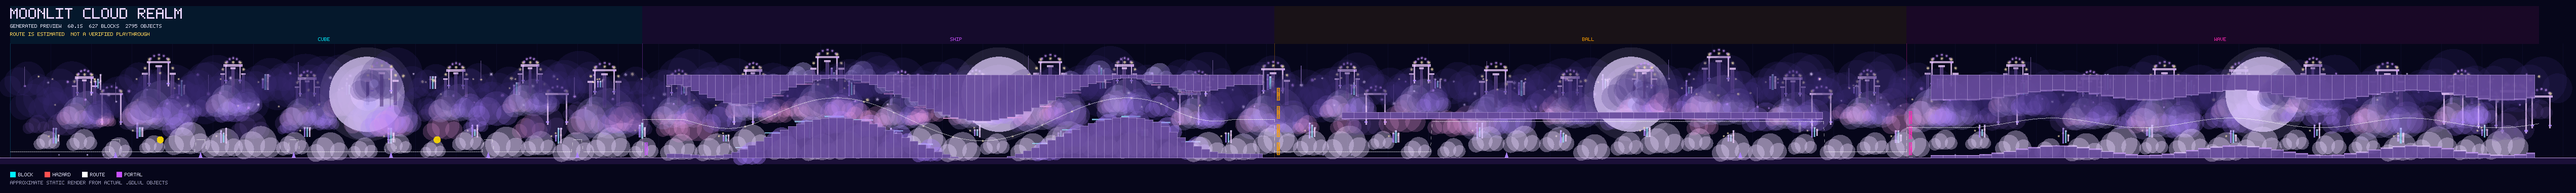
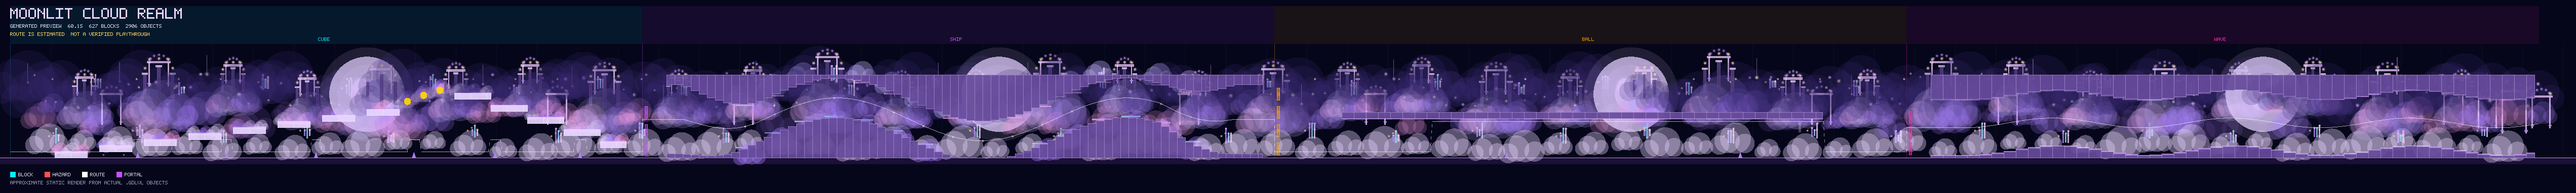
feat(moonlit): ascend the cube section over cloud steps and hidden orbs
- Replace flat ground spikes with eight cloud ledges rising 30 units each

- Add three yellow orbs nested in cloud puffs, then a descending cloud stair

- Stack ship portals at y=45/135/225 so any ledge height enters the ship

- Keep six ground hazards under the route; falls return to open ground

- Add a cube-ascent regression test (57 tests total)

Changed region(s): [[0.0, 0.288, 1.0, 0.8351]]

diff --git a/gdgen/moonlit.py b/gdgen/moonlit.py
@@ -168,17 +168,53 @@ def _at(level: Level, x: float, y: float, mode: str) -> None:
     # No extra speed portal: all 4 sections use normal speed.
 
 
-def _cube(level: Level, start: float, end: float) -> None:
-    # Explicitly sparse: previous 'Neon Cyber City' was judged too hard.
-    for offset in (780, 1410, 2100, 2820, 3540, 4200):
-        if start + offset < end - 350:
-            level.objects.append(make_spike(start + offset, 15, channel=3))
-    # Optional yellow orbs reinforce the reference image but are not required
-    # for progression. They are placed away from all compulsory spikes.
-    for offset in (1110, 3160):
-        level.objects.append(GDObject(ORB_YELLOW, start + offset, 90, {21: 6}))
-    # The ordinary Geometry Dash ground at y=0 is traversable.
-    # Do NOT build a row of solid blocks on it: that would trap the player.
+# Cube opening: a short stair of wide cloud ledges, then yellow orbs nestled
+# in decorative clouds, then a descending cloud stair into the ship portal.
+# Rises stay at 30 units and gaps at ~90 units, well inside the normal Cube
+# jump arc. Falls land on the ordinary ground, so a missed orb is survivable.
+CUBE_STEPS = (
+    (330, 570, 30), (660, 900, 60), (990, 1230, 90), (1320, 1560, 120),
+    (1650, 1890, 150), (1980, 2220, 180), (2310, 2550, 210), (2640, 2880, 240),
+)
+CUBE_ORBS = ((2940, 280), (3060, 310), (3180, 335))
+CUBE_DESCENT = (
+    (3290, 3560, 320), (3560, 3830, 260), (3830, 4100, 200),
+    (4100, 4370, 140), (4370, 4560, 80),
+)
+# Ground hazards live under the cloud path: the intended platform line stays
+# clean, but a missed jump is punished. Spacing >= 600 keeps it readable.
+CUBE_SPIKES = (945, 1605, 2265, 2990, 3590, 4220)
+
+
+def _cloud_platform(level: Level, x0: float, x1: float, top: float,
+                    rng: random.Random) -> None:
+    """Solid wide ledge, 30 units thick, with cosmetic cloud puffs behind it."""
+    _solid_strip(level, x0, x1, top - 30, top, 1, step=120, glow="top")
+    for cx in (x0 + 34, (x0 + x1) / 2, x1 - 34):
+        _cloud(level, cx, top + 6, rng.uniform(0.75, 1.05),
+               rng.choice((1, 2, 3)), rng, z=-2)
+
+
+def _cube(level: Level, start: float, end: float, rng: random.Random) -> None:
+    # Ascending cloud stair: jump from ledge to ledge, each one 30 units up.
+    for x0, x1, top in CUBE_STEPS:
+        if x1 < end - 300:
+            _cloud_platform(level, x0, x1, top, rng)
+    # Yellow orbs hidden inside cloud puffs continue the climb into the sky.
+    for ox, oy in CUBE_ORBS:
+        _cloud(level, ox - 22, oy - 10, 1.05, 1, rng, z=-2)
+        _cloud(level, ox + 24, oy + 2, 0.90, 2, rng, z=-2)
+        _cloud(level, ox - 2, oy + 20, 0.80, 3, rng, z=-3)
+        level.objects.append(GDObject(ORB_YELLOW, ox, oy, {21: 6}))
+    # Descending cloud stair; adjacent steps let the player simply drop down.
+    for x0, x1, top in CUBE_DESCENT:
+        if x1 < end - 60:
+            _cloud_platform(level, x0, x1, top, rng)
+    # Ground spikes beneath the route, spaced so each one is readable.
+    for sx in CUBE_SPIKES:
+        if sx < end - 120:
+            level.objects.append(make_spike(sx, 15, channel=3))
+    # The ordinary ground at y=0 stays traversable so a fall is never a lock.
 
 
 def _glow_edge(level: Level, x0: float, x1: float, y: float, side: str,
@@ -433,10 +469,15 @@ def generate_moonlit(spec) -> Level:
                 # Ball can approach from the floor, mid-air or the ceiling.
                 for portal_y in (45, 125, 200):
                     _at(level, cursor + 30, portal_y, mode)
+            elif mode == "ship":
+                # The cube leaves the descending cloud stair at varying
+                # heights; overlapping portals catch every approach.
+                for portal_y in (45, 135, 225):
+                    _at(level, cursor + 30, portal_y, mode)
             else:
                 _at(level, cursor + 30, 45, mode)
         if mode == "cube":
-            _cube(level, cursor, end)
+            _cube(level, cursor, end, rng)
         elif mode == "ship":
             _ship(level, cursor, end)
         elif mode == "ball":

diff --git a/tests/test_moonlit.py b/tests/test_moonlit.py
@@ -13,7 +13,7 @@ from gdgen.moonlit import (
     MOVE_TRIGGER, PULSE_TRIGGER, ship_corridor_bounds,
 )
 from gdgen.objects import (
-    BLOCK, GDObject, HAZARD_IDS, PORTAL_BALL, PORTAL_WAVE,
+    BLOCK, GDObject, HAZARD_IDS, ORB_YELLOW, PORTAL_BALL, PORTAL_WAVE,
 )
 from gdgen.route import _corridor_center
 from gdgen.validate import validate
@@ -50,6 +50,23 @@ class MoonlitTests(unittest.TestCase):
         wave_portals = sorted(o.y for o in objects if o.id == PORTAL_WAVE)
         self.assertTrue(all(b - a <= 90
                             for a, b in zip(wave_portals, wave_portals[1:])))
+
+    def test_cube_cloud_ascent(self):
+        cube = self.level.sections[0]
+        blocks = [o for o in self.level.objects
+                  if o.id == BLOCK and cube["start"] <= o.x <= cube["end"]]
+        tops = sorted({round(o.y + 15 * o.scale_y) for o in blocks})
+        # Ascending cloud stair plus descending stair back to the ship portal.
+        self.assertGreaterEqual(len(tops), 8)
+        self.assertGreaterEqual(tops[3], 90)
+        self.assertLessEqual(max(tops), 340)
+        orbs = [o for o in self.level.objects
+                if o.id == ORB_YELLOW and cube["start"] <= o.x <= cube["end"]]
+        self.assertGreaterEqual(len(orbs), 3)
+        self.assertLess(max(o.y for o in orbs), 360)
+        # The player must be able to fall off the last ledge onto open ground.
+        last_x = max(o.x + 15 * o.scale_x for o in blocks)
+        self.assertLess(last_x, cube["end"] - 60)
 
     def test_wave_is_a_wide_gentle_zigzag(self):
         wave = self.level.sections[3]

diff --git a/PROGRESS.md b/PROGRESS.md
@@ -195,7 +195,8 @@
 
 ## Этап 6 — мягкий Wave, стопки порталов и валидация триггеров (2026-11-06)
 
-- Текущая сгенерированная сборка: **2795 объектов**, 282 блока, 8 одиночных шипов, 8 порталов режима, 60.1 секунды. Прежняя версия — 2653 объекта.
+- Текущая сгенерированная сборка: **2906 объектов**, 312 блоков, 8 одиночных шипов, 10 порталов режима, 60.1 секунды. Прежняя версия — 2795 объектов.
+- Cube-старт стал полноценным подъёмом: восемь облачных уступов по +30 units (разрыв ~90), затем три жёлтых orb, вложенных в декоративные облака, и спуск по облачной лестнице к Ship-порталу. Шесть шипов стоят на земле под маршрутом с интервалом >= 600; падение возвращает на обычный пол. Ship-портал продублирован по высоте (45/135/225), чтобы принять игрока с любого уступа.
 - Wave переработан: коридор высотой **280 units** после плоской входной полки (420 units) плавно смещается на 48 units с периодом ~1320 units (~4.2 с при normal speed). Это мягкий зигзаг для диагонального управления, а не узкие щели. Маршрут-эвристика следует центру коридора.
 - Платформы перекрашены в бело-лиловый и получили тонкую светящуюся **нетвёрдую** кромку (декоративная панель 1904 в B4); она не участвует в коллизии.
 - Переходы стали безопаснее: 4 перекрывающихся Ball-портала (y=45/135/225/315) и 3 Wave-портала (y=45/125/200) на одной X-координате; портал нормальной гравитации перед Wave опущен на y=150, чтобы не пересекать потолочный блок.

diff --git a/AGENTS.md b/AGENTS.md
@@ -16,7 +16,8 @@
 ## Реализовано после создания исходного каталога: Moonlit Cloud Kingdom (2026-11-06)
 
 - Реальный новый пресет `moonlit-cloud-kingdom` в `gdgen/moonlit.py`.
-- Обновление: насыщенный облачный мир (**2795 объектов**), 8 одиночных шипов; Ship использует `ship_corridor_bounds()` с плавной S-траекторией и проходом >=180 units. Тест проверяет, что постоянная высота полёта не проходит весь участок. Декор расположен в Z Layer B4 (`24:-3`). Это геометрическая эвристика, НЕ доказательство проходимости в игре.
+- Обновление: насыщенный облачный мир (**2906 объектов**), 8 одиночных шипов; Ship использует `ship_corridor_bounds()` с плавной S-траекторией и проходом >=180 units. Тест проверяет, что постоянная высота полёта не проходит весь участок. Декор расположен в Z Layer B4 (`24:-3`). Это геометрическая эвристика, НЕ доказательство проходимости в игре.
+- Cube-старт переработан в подъём: восемь облачных уступов по +30 units, затем три жёлтых orb в облачных клубах и спуск по облачной лестнице к Ship-порталу. Уступы держат прыжок внутри обычной дуги Cube; падение возвращает на пол, а не блокирует прохождение. Шесть одиночных шипов стоят на земле под маршрутом (интервал >= 600).
 - Генерируются четыре секции Cube/Ship/Ball/Wave с упрощённым геймплеем.
   Ball в этом пресете — коридор с потолком, гравитацией и редкими
   одиночными шипами; Wave — широкий (280 units) коридор, который плавно
